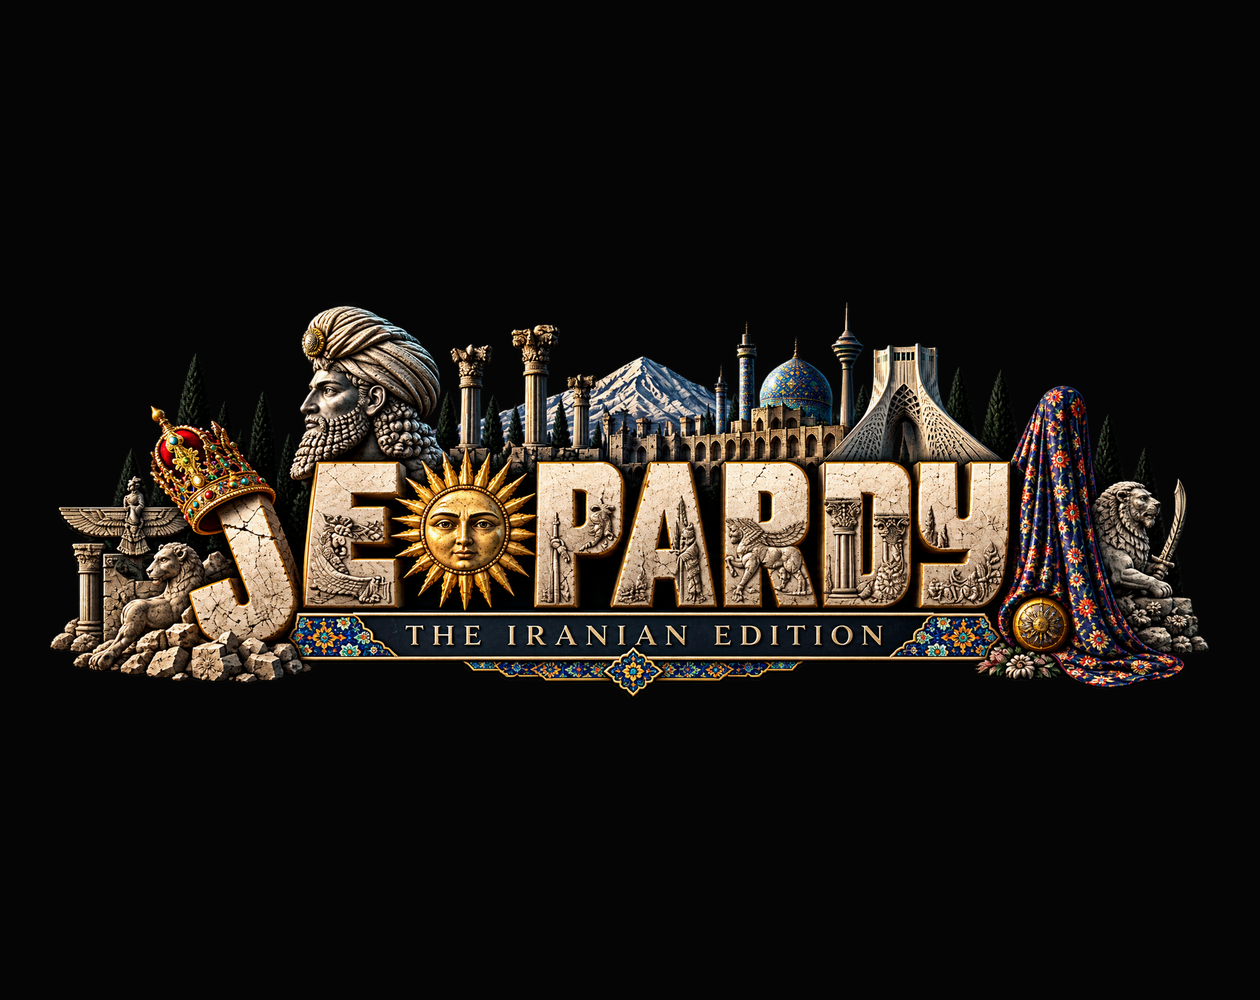
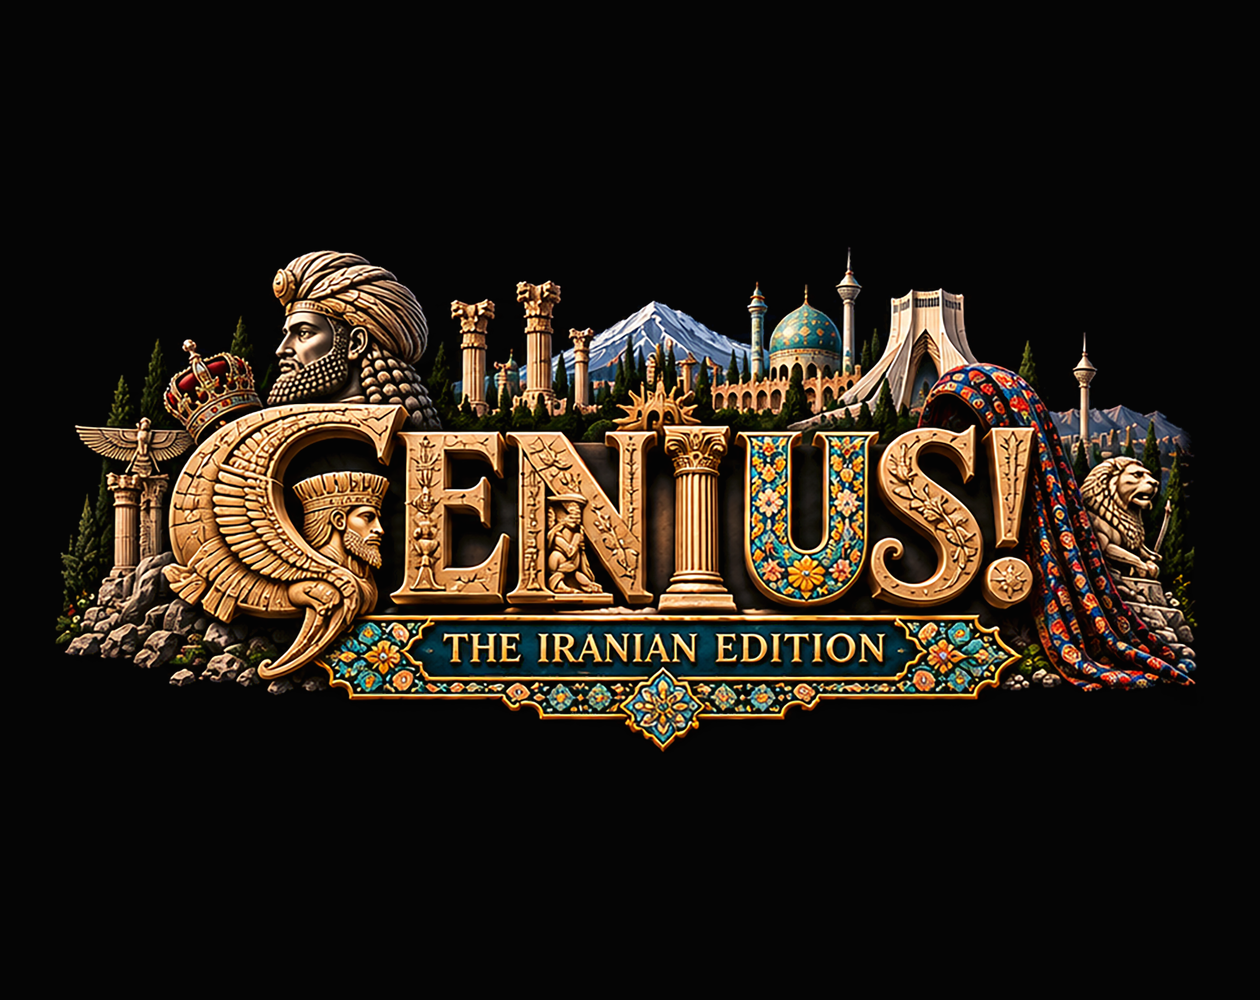
Cut 2.0.0: GENIUS! (نابغه!) rebrand, cloned course voices, and zero-scroll UI

Changed region(s): [[0.031, 0.248, 0.9595, 0.744]]

diff --git a/Web/editions.js b/Web/editions.js
@@ -154,6 +154,7 @@ window.registerEdition({
 });
 
 function syncLogos() {
+  if (typeof document === 'undefined' || typeof document.getElementById !== 'function') return;
   var lang = (window.getLang && window.getLang() === 'fa') ? 'fa' : 'en';
   var mainEd = BY_ID.general;
   var activeId = current || (mainEd && mainEd.id) || 'general';

diff --git a/Web/update.js b/Web/update.js
@@ -29,7 +29,7 @@
 (function () {
   'use strict';
 
-  var VERSION = '1.0.17';
+  var VERSION = '2.0.0';
 
   var REPO = 'aghamorad/jeopardy-iranian-edition';
   var API = 'https://api.github.com/repos/' + REPO + '/releases/latest';

diff --git a/README.md b/README.md
@@ -1,18 +1,18 @@
-![JEOPARDY! — The Iranian Edition](.github/assets/logo-banner.png)
+![GENIUS! — The Iranian Edition](.github/assets/logo-banner.png)
 
-# JEOPARDY! — Iranian Edition
+# GENIUS! — Iranian Edition (نابغه! — نسخهٔ ایرانی)
 
 [![Play on GitHub](https://img.shields.io/badge/Play%20on-GitHub-24292F?style=for-the-badge&logo=github&logoColor=white)](https://aghamorad.github.io/jeopardy-iranian-edition/)
 [![Browse releases](https://img.shields.io/badge/Browse-GitHub%20Releases-24292F?style=for-the-badge&logo=github&logoColor=white)](https://github.com/aghamorad/jeopardy-iranian-edition/releases/latest)
-[![Add Jeopardy Iranian Edition to SideStore](https://img.shields.io/badge/Add%20Jeopardy%20Iranian%20Edition%20to-SideStore-0A4D91?style=for-the-badge)](https://aghamorad.github.io/jeopardy-iranian-edition/sidestore/)
+[![Add Genius Iranian Edition to SideStore](https://img.shields.io/badge/Add%20Genius!%20Iranian%20Edition%20to-SideStore-0A4D91?style=for-the-badge)](https://aghamorad.github.io/jeopardy-iranian-edition/sidestore/)
 [![Languages](https://img.shields.io/badge/Languages-English%20%2B%20Persian-6A3D9A?style=for-the-badge)](https://aghamorad.github.io/jeopardy-iranian-edition/)
 [![Available on](https://img.shields.io/badge/Available%20on-iOS%20%7C%20Android%20%7C%20macOS-4C6A72?style=for-the-badge)](https://github.com/aghamorad/jeopardy-iranian-edition/releases/latest)
 
 Ask an Iranian about Iranian history and the answer comes immediately. Ask the next
 Iranian and the answer is different, and just as immediate. This game is built on that.
 
-Three contestants, six categories a round, one buzzer each. Single Jeopardy, Double
-Jeopardy, a Daily Double hiding in each round, and a Final where you wager before you see
+Three contestants, six categories a round, one buzzer each. Single Genius, Double
+Genius, a Daily Double hiding in each round, and a Final where you wager before you see
 the clue. The categories are the ones people actually fight about: empires that fell
 apart, revolutions that went sideways, poets, oil, and whatever your uncle is so sure
 about.
@@ -68,9 +68,9 @@ Four builds, all on the [Releases page](https://github.com/aghamorad/jeopardy-ir
 
 | File | Size | Runs on |
 | --- | --- | --- |
-| `Jeopardy-Iranian-Edition-macOS-universal.zip` | 63 MB | macOS 14 or later, Intel or Apple silicon |
-| `Jeopardy-Iranian-Edition-iOS.ipa` | 64 MB | iOS or iPadOS 17 or later, iPhone and iPad |
-| `Jeopardy-Iranian-Edition-Android.apk` | 62 MB | Android 7.0 or later |
+| `Jeopardy-Iranian-Edition-macOS-universal.zip` | 76 MB | macOS 14 or later, Intel or Apple silicon |
+| `Jeopardy-Iranian-Edition-iOS.ipa` | 77 MB | iOS or iPadOS 17 or later, iPhone and iPad |
+| `Jeopardy-Iranian-Edition-Android.apk` | 75 MB | Android 7.0 or later |
 | `Jeopardy-Iranian-Edition-web-beta-N.zip` | 11 MB | any browser — unzip and open `index.html` |
 
 The first three are the web show in a native shell, so they carry the same `Web/` tree the

diff --git a/HANDOFF.md b/HANDOFF.md
@@ -4,6 +4,10 @@
 **Last Updated:** 2026-11-21 (Gemini)
 
 ## Current Verified State
+- **Release `v2.0.0` (build `2000`) — GENIUS! (نابغه!):**
+  - Bumped `Web/update.js` (`VERSION = '2.0.0'`), updated `Tools/show_version.sh --build` and `Android/app/build.gradle.kts` `versionCode` to `major * 1000 + minor * 100 + patch` (`2000 > 1017`), updated `iOS/JeopardyIOS/Info.plist`, `sidestore.json`, `README.md`, `.github/assets/logo-banner.png`, `.github/assets/itch-cover.png`, and `dist/RELEASE-v2.0.0.md`.
+  - Added Node VM DOM guard to `Web/editions.js` `syncLogos()` so `Tools/check_web.js` passes for GitHub Pages and itch.io CI.
+  - Built & verified universal macOS zip (`79,691,741` B, `x86_64 arm64`), unsigned iOS IPA (`81,155,075` B, `Web/` parity verified), and release-signed Android APK (`79,070,544` B, v2 signature verified).
 - **Rebranded IP (`Jeopardy!` / `جپاردی!` → `GENIUS!` / `نابغه!`):**
   - **All 8 High-Res Transparent Logos Replaced & Bilingual-Synced** (icons `icon-512.png`, `apple-touch-icon.png` kept unchanged):
     - **English (`GENIUS!`):** upscaled 2x from `/Users/Morad/Desktop/New Logos/GENIUS! — English Logo Masters/2026-11-20 — Smoke Easter Egg (Subtle)` in Adobe Photoshop 2026 (`Preserve Details 2.0`), cleaned stray 21px top speck on Main Iranian Edition, saved as RGBA transparent PNGs (`2106–2124 px` wide):
